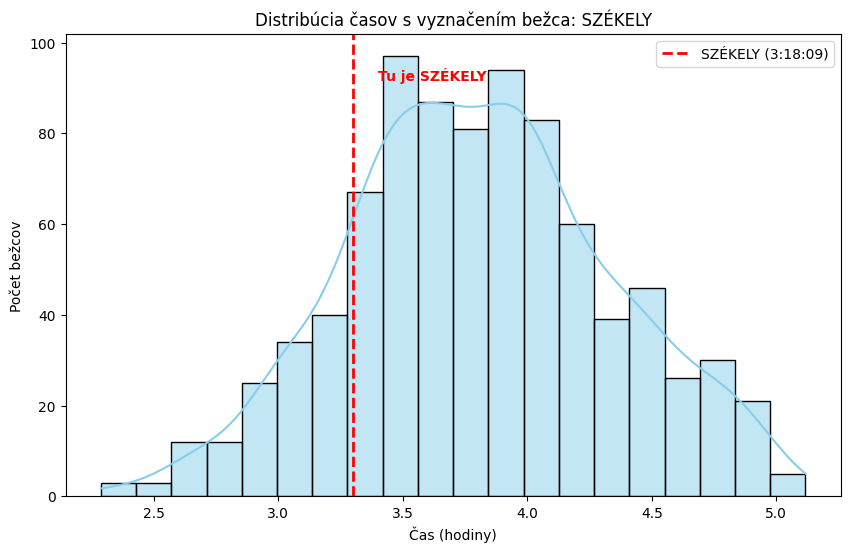
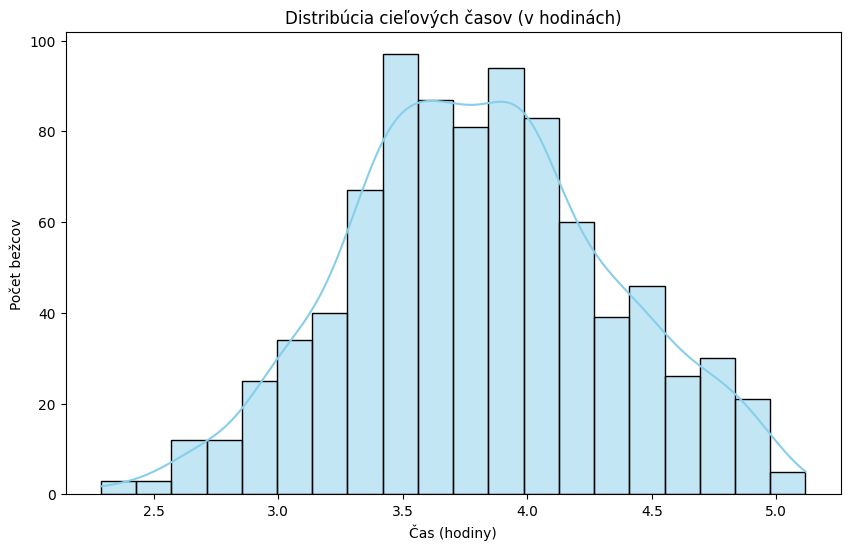
updated grafy

diff --git a/Grafy.py b/Grafy.py
@@ -33,7 +33,16 @@ plt.title('Podiel 5 najčastejších národností')
 plt.savefig('Pie_Bella.png', bbox_inches='tight')
 plt.show()
 
+
 # --- 2. HISTOGRAM (Distribution of Finish Times) ---
+plt.figure(figsize=(10, 6))
+sns.histplot(df_clean['Čas_hodiny'], bins=20, kde=True, color='skyblue')
+plt.title('Distribúcia cieľových časov (v hodinách)')
+plt.xlabel('Čas (hodiny)')
+plt.ylabel('Počet bežcov')
+plt.savefig('Histogram_Bella.png', bbox_inches='tight')
+plt.show()
+# --- 2.1 HISTOGRAM (Szekely)
 plt.figure(figsize=(10, 6))
 sns.histplot(df_clean['Čas_hodiny'], bins=20, kde=True, color='skyblue')
 plt.title('Distribúcia cieľových časov (v hodinách)')
@@ -48,8 +57,9 @@ plt.xlabel('Čas (hodiny)')
 plt.ylabel('Počet bežcov')
 plt.legend()
 plt.savefig('histogram_highlighted_Bella.png')
-plt.savefig('Histogram_Bella.png', bbox_inches='tight')
+
 plt.show()
+
 
 
 # --- 3. BAR CHART (Runners per Category) ---
